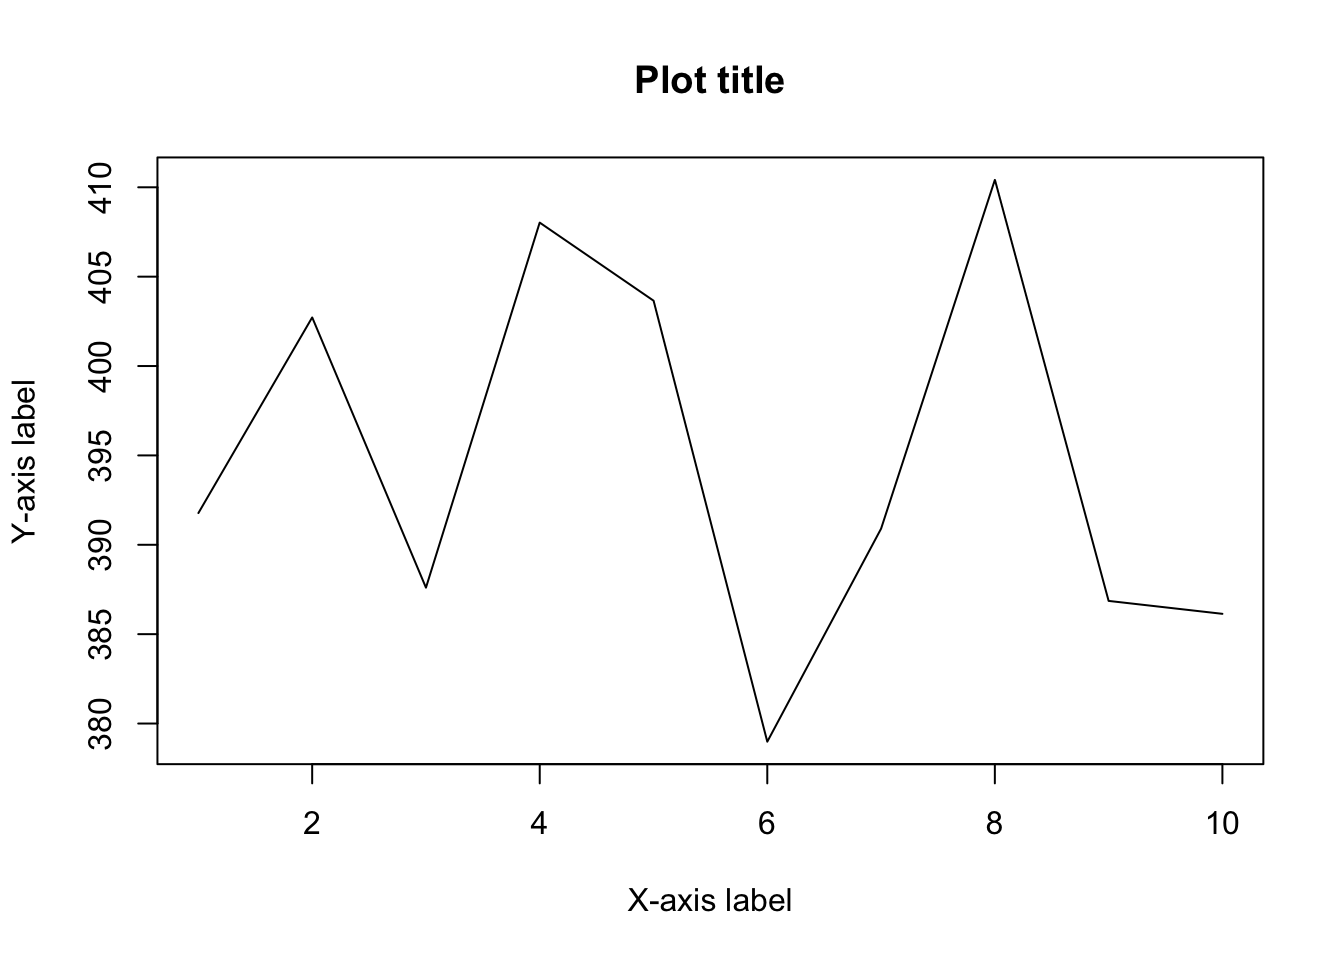
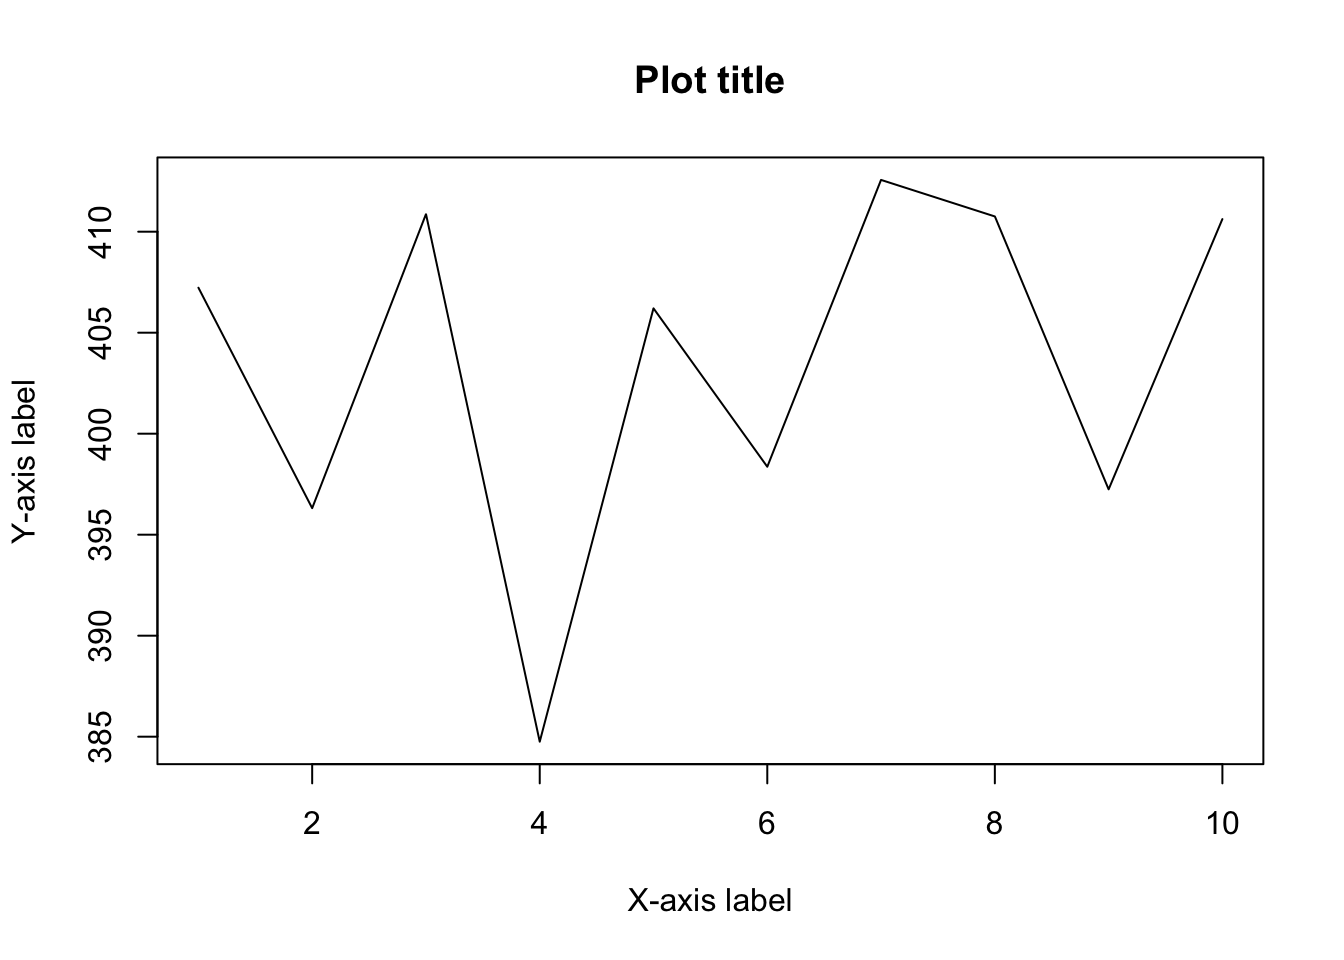
edit post

diff --git a/content/blog/how-to-install-r-and-rstudio.html b/content/blog/how-to-install-r-and-rstudio.html
@@ -102,7 +102,7 @@ output:
 <p class="caption">Environment pane in RStudio</p>
 </div>
 <p>This means that you can now perform any computations with <code>a</code>, such that if you execute <code>a + 1</code>, RStudio will render <code>2</code> in the console. In this pane you can also see a tab with a history of the code executed and a button to import a dataset (more on <a href="/blog/how-to-import-an-excel-file-in-rstudio/">importing a dataset in RStudio</a>).</p>
-<p>The last pane (blue) is where you will find everything else such as your files, the plots, the packages, the help documentation, etc. I discuss about the Files tab in more details <a href="/blog/how-to-import-an-excel-file-in-rstudio/">here</a> so let’s discuss about the other tabs:</p>
+<p>The last pane (blue) is where you will find everything else such as your files, the plots, the packages, the help documentation, etc. I discuss about the Files tab in more detail <a href="/blog/how-to-import-an-excel-file-in-rstudio/">here</a> so let’s discuss about the other tabs:</p>
 <ul>
 <li>Plot: where you will see the rendered plots. For instance, run <code>plot(1:10)</code> and you should see it in this tab. If you plotted more than one plots, you can navigate between them by clicking on the arrows. You can open the plot in a new window by clicking on Zoom and export your plot by clicking on Export. Those buttons are located just under the Plot tab (see figure below)</li>
 <li>Packages: where you see all your installed packages. Only fundamental functionalities come with R. Everything else must be installed from packages. Remind that R is open source; everyone can write code and publish it as a package. You are then able to use this package (and all functions built inside this package) for free. Some packages are installed by default, all others must be installed by running <code>install.packages(&quot;name of the package&quot;)</code> (do not forget <code>&quot;&quot;</code> around the name of the package!). Once the package is installed, you must load the package and only after it has been loaded you can use all the functions it contains. To load a package, run <code>library(name of the package)</code> (this time <code>&quot;&quot;</code> around the name of the package are optional, but can still be used if you wish). You also have the possibility to install and load packages via the buttons under the Packages tab. For this, click on the button Install under Packages, type the name of the package you want to install and then click on Install. You will see that the code appears in the console. To load the package, find the package you want to load in the Packages window (you can use the search box), then click on the checkbox next to the name of the package. Again, the code is run in the console. See the figures below if needed. Note that you will need to install packages <strong>only once</strong>,<a href="#fn1" class="footnote-ref" id="fnref1"><sup>1</sup></a> but load packages <strong>each time</strong> you open RStudio. Furthermore, note that an internet connection is required to install a package, while it is not required to load a package</li>
@@ -191,10 +191,10 @@ my_mat2</code></pre>
 <pre class="r"><code>my_vec &lt;- rnorm(10, mean = 400, sd = 10)
 # Display only the first 5 values:
 head(my_vec, 5)</code></pre>
-<pre><code>## [1] 391.7750 402.7171 387.6012 408.0236 403.6579</code></pre>
+<pre><code>## [1] 407.2270 396.3127 410.8629 384.7525 406.2052</code></pre>
 <pre class="r"><code># Display only the last 5 values:
 tail(my_vec, 5)</code></pre>
-<pre><code>## [1] 378.9842 390.8981 410.4127 386.8603 386.1375</code></pre>
+<pre><code>## [1] 398.3636 412.5637 410.7548 397.2449 410.6236</code></pre>
 <p>You will have different values than mines due to the fact that they are randomly generated. If you want to make sure to have always the same random values, use <code>set.seed()</code> (with any numeric inside the brackets). For instance, with the following code, you should have the exact same values, no matter where and when you run it:</p>
 <pre class="r"><code>set.seed(42)
 rnorm(3, mean = 10, sd = 2)</code></pre>

diff --git a/public/blog/how-to-install-r-and-rstudio/index.html b/public/blog/how-to-install-r-and-rstudio/index.html
@@ -241,7 +241,7 @@
 <p class="caption">Environment pane in RStudio</p>
 </div>
 <p>This means that you can now perform any computations with <code>a</code>, such that if you execute <code>a + 1</code>, RStudio will render <code>2</code> in the console. In this pane you can also see a tab with a history of the code executed and a button to import a dataset (more on <a href="/blog/how-to-import-an-excel-file-in-rstudio/">importing a dataset in RStudio</a>).</p>
-<p>The last pane (blue) is where you will find everything else such as your files, the plots, the packages, the help documentation, etc. I discuss about the Files tab in more details <a href="/blog/how-to-import-an-excel-file-in-rstudio/">here</a> so let’s discuss about the other tabs:</p>
+<p>The last pane (blue) is where you will find everything else such as your files, the plots, the packages, the help documentation, etc. I discuss about the Files tab in more detail <a href="/blog/how-to-import-an-excel-file-in-rstudio/">here</a> so let’s discuss about the other tabs:</p>
 <ul>
 <li>Plot: where you will see the rendered plots. For instance, run <code>plot(1:10)</code> and you should see it in this tab. If you plotted more than one plots, you can navigate between them by clicking on the arrows. You can open the plot in a new window by clicking on Zoom and export your plot by clicking on Export. Those buttons are located just under the Plot tab (see figure below)</li>
 <li>Packages: where you see all your installed packages. Only fundamental functionalities come with R. Everything else must be installed from packages. Remind that R is open source; everyone can write code and publish it as a package. You are then able to use this package (and all functions built inside this package) for free. Some packages are installed by default, all others must be installed by running <code>install.packages(&quot;name of the package&quot;)</code> (do not forget <code>&quot;&quot;</code> around the name of the package!). Once the package is installed, you must load the package and only after it has been loaded you can use all the functions it contains. To load a package, run <code>library(name of the package)</code> (this time <code>&quot;&quot;</code> around the name of the package are optional, but can still be used if you wish). You also have the possibility to install and load packages via the buttons under the Packages tab. For this, click on the button Install under Packages, type the name of the package you want to install and then click on Install. You will see that the code appears in the console. To load the package, find the package you want to load in the Packages window (you can use the search box), then click on the checkbox next to the name of the package. Again, the code is run in the console. See the figures below if needed. Note that you will need to install packages <strong>only once</strong>,<a href="#fn1" class="footnote-ref" id="fnref1"><sup>1</sup></a> but load packages <strong>each time</strong> you open RStudio. Furthermore, note that an internet connection is required to install a package, while it is not required to load a package</li>
@@ -330,10 +330,10 @@ my_mat2</code></pre>
 <pre class="r"><code>my_vec &lt;- rnorm(10, mean = 400, sd = 10)
 # Display only the first 5 values:
 head(my_vec, 5)</code></pre>
-<pre><code>## [1] 391.7750 402.7171 387.6012 408.0236 403.6579</code></pre>
+<pre><code>## [1] 407.2270 396.3127 410.8629 384.7525 406.2052</code></pre>
 <pre class="r"><code># Display only the last 5 values:
 tail(my_vec, 5)</code></pre>
-<pre><code>## [1] 378.9842 390.8981 410.4127 386.8603 386.1375</code></pre>
+<pre><code>## [1] 398.3636 412.5637 410.7548 397.2449 410.6236</code></pre>
 <p>You will have different values than mines due to the fact that they are randomly generated. If you want to make sure to have always the same random values, use <code>set.seed()</code> (with any numeric inside the brackets). For instance, with the following code, you should have the exact same values, no matter where and when you run it:</p>
 <pre class="r"><code>set.seed(42)
 rnorm(3, mean = 10, sd = 2)</code></pre>

diff --git a/content/blog/data-types-in-r.html b/content/blog/data-types-in-r.html
@@ -43,7 +43,7 @@ output:
 <li>Factor</li>
 <li>Logical</li>
 </ol>
-<p>Datasets in R are often a combination of these 6 different data types. Below we explore in more details each data types one by one, except the data type “complex” as we focus on the main ones and this data type is rarely used in practice.</p>
+<p>Datasets in R are often a combination of these 6 different data types. Below we explore in more detail each data types one by one, except the data type “complex” as we focus on the main ones and this data type is rarely used in practice.</p>
 </div>
 <div id="numeric" class="section level1">
 <h1>Numeric</h1>

diff --git a/public/blog/data-types-in-r/index.html b/public/blog/data-types-in-r/index.html
@@ -182,7 +182,7 @@
 <li>Factor</li>
 <li>Logical</li>
 </ol>
-<p>Datasets in R are often a combination of these 6 different data types. Below we explore in more details each data types one by one, except the data type “complex” as we focus on the main ones and this data type is rarely used in practice.</p>
+<p>Datasets in R are often a combination of these 6 different data types. Below we explore in more detail each data types one by one, except the data type “complex” as we focus on the main ones and this data type is rarely used in practice.</p>
 </div>
 <div id="numeric" class="section level1">
 <h1>Numeric</h1>
